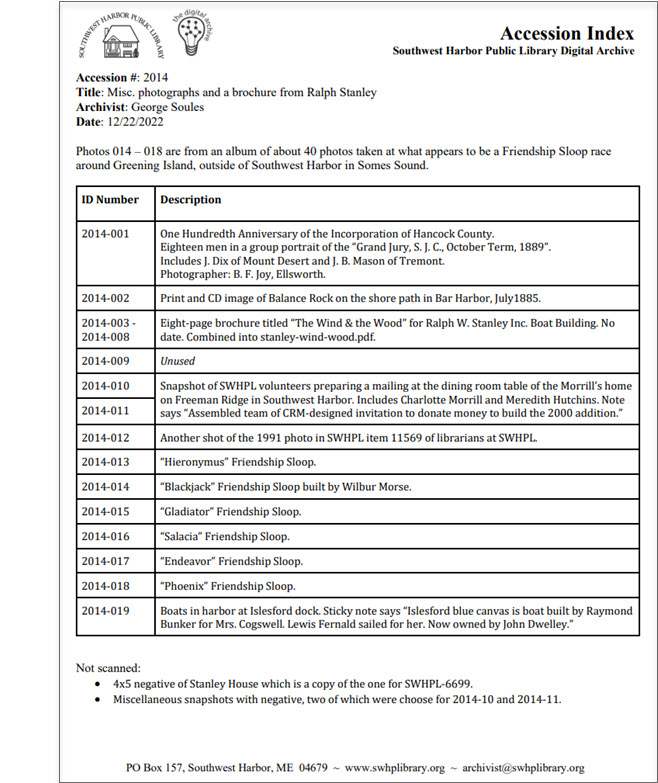
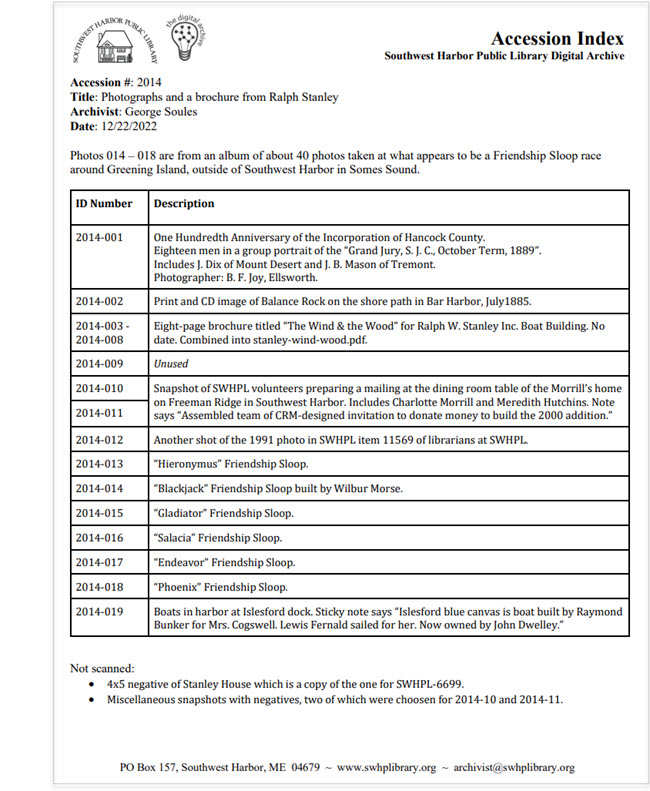
Updates to the Accession Index section.

Changed region(s): [[0.0615, 0.0, 1.0, 1.0]]

diff --git a/digital-archive/docs/archivist/accessioning.md b/digital-archive/docs/archivist/accessioning.md
@@ -385,11 +385,7 @@ In the explanations below, `####` means the accession number.
 :   This step produces a searchable index that, once attached to the UA in step 5A, makes a detailed description of the
     accession searchable via the Digital Archive.
 
-    -   Make a copy of the file named `accession-index-template.docx` which is   
-        located in the Google Drive `Policies and Procedures` folder.
-    -   Rename the copy to `accession-index-####.docx` where `####` is the accession number.
-    -   Follow the instructions for [creating an index for an accession](#accession-index).
-    -   Save the index Word document as a PDF file named `accession-index-####.pdf`.
+    -   Follow the instructions for [creating an accession index](#creating-an-accession-index).
     -   Create a new S3 folder named `S3\Accessions\####`.
     -   Upload the PDF and Word files to the S3 folder.
 
@@ -577,47 +573,115 @@ The screenshot below shows some of the fields and a few of the many rows of the 
 ---
 
 ## Accession Index
-- Create diagram showing indexing process.
-    -    Accession reviewed by curator at outset
-    -    Archivist creates index, asks curator for help filling in blanks
-    -    Archivist submits index to curator for approval
-- Each row should contain all available metadata, same as would go into a DA item.
-- Index should not have blank entries
-- To fill in blanks, try to find related items in DA to determine whether to keep or separate an item.
-- Use a separate table in the index file to list items that have been separated.
-- Mention that the index can just be text in a UAs Description field when appropriate.
 
+An accession index is an inventory of what's in an accession. The index
+contributes to the [goal of accessibility](#accessibility) by making the contents of an accession searchable
+even if the accession's individual items have not yet been added to the Digital Archive.
 
-
-The real work of accessioning begins with indexing the accession's contents. The archivist examines the items
-in the accession and creates a table in a Word document with one row for each item. Depending on the information available,
-the table may be complete and detailed, or it may be sparse, only identifying the most significant items in the accession,
-or only those items for which information is known.
-
-When creating the index, use as many relevant keywords as possible since the text in the index will be searchable.
-The words in the index will determine whether someone will be able to search for and find something of
-interest in the accession.
-
-The index table should contain the columns listed below and possibly others if there is other information to record such as which
-of a set of photo albums a photograph item is contained in.
-
--   **ID number**: An identification number used for [file naming](#file-naming) when the item is or was scanned.
--   **Description**: A concise, but keyword-rich description of the item.
--   **Date**: The date of the item if known.
--   **Notes**: Other information about the item. 
-
-Below is a screenshot showing an example of a typical index where there is a lot of information for some
-items and none for others.
+In most cases, an archivist creates an accession Index as a Word document and then converts it to a PDF file.
+Below is an example of a typical accession index.
 
 ![image](accessioning-19.jpg)
 
-In addition to making the accession accessible and searchable via the Digital Archive, the index also provides a guide
-for someone who is tasked with scanning the items in the accession. They will use the table's Description column to identify
-items and use the Item Number to derive the scan's file name.
+For some accessions it is sufficient to create a very simple index and paste it into the **_Description_** field
+for the accession's Digital Archive item. Below is an example of this kind of accession index.
 
-### Auto-numbering index table rows
+![image](accessioning-27.jpg)
+
+ The simpler index
+would be appropriate when little is known about the individual items, or as a way to quickly make an accession
+accessible when there is not enough time to create a more detailed index. The simpler index can also be sufficient if
+the accession has a [contact sheet](#accession-contact-sheet) containing keyword-rich file names which add to the
+accession's searchability.
+
+### Creating an accession index
+This section explain the key elements involved in creating an accession index:
+
+-   Curator assessment of the accession
+-   Item ID numbers
+-   Accession index template
+-   Metadata
+-   Curator approval of the index file
+
+#### Curator assessment of the accession
+Before an archivist creates an index for an accession, the curator should assess the items in the accession
+to determine which items should be: 
+
+-   Separated out because they don't satisfy the [collection development policy](#collection-development-policy).
+-   Assigned individual ID numbers and be listed on individual rows in the index.
+-   Treated as a set to be described on one row in the index.
+-   Eventually be digitized.
+
+This assessment effort by the curator ensures that the time an archivist spends creating the accession index will
+be focused on items that the curator deemed most important.
+
+#### Item ID numbers
+Index creation and scanning are faster and easier when the accession items identified by the curator as needing ID numbers
+are labeled with those numbers *before* indexing or scanning the items. For prints and documents, this is usually done
+by writing the ID number in pencil in an inconspicuous place such as the back of the print or document. A pen may be required
+if pencil will not mark. If the item cannot be marked inconspicuously, the item can be placed in a clear sleeve with the ID number
+written on the sleeve with a sharpie. Do not rely on sticky notes for this purpose since they might detach leaving the item unidentified.
+
+Pre-labeling the items ensures that the physical items match the items in the index which is especially helpful if the
+materials get mixed up while handling them.
+
+The ID number is usually the accession number (or sub-accession number) followed by a hyphen followed by a three digit number
+with leading zeros. For example `2014-001`, or `1071_03-071`. If the item is already a digital file, the file name can
+be used as the ID "number" or it can be renamed to follow the usual accession item numbering scheme.
+
+When it comes time to scan the accession's items, the person doing the scanning uses the ID numbers as the item file names.
+
+#### Accession index template
+An archivist creates an accession-index from a template. To use the template:
+
+-   Make a copy of the file named `accession-index-template.docx` which is   
+    located in the Google Drive `Policies and Procedures` folder.
+-   Rename the copy to `accession-index-####.docx` where `####` is the accession number.
+
+The template file contains two columns: `ID Number` and `Description` but you can add additional columns
+to provide information that is unique to the items in the accession. For example, when scanning the pages
+of a photo album without first removing each photo, and without marring the album pages with ID numbers,
+you can identify photos by their position on the album page. The example below does this by using a `Position` column.
+
+![image](accessioning-28.jpg)
+
+You can also add notes in the form of paragraphs above and/or below the table as shown in the examples in this section.
+
+##### Auto-numbering index table rows
+When creating a long index, you can save time by having Microsoft Word automatically number the index
+rows for you. To do this, remove all but the first row from the template, select the ID Number cell in that row, and
+then define a numbering format as shown below. The format will be applied when you add new rows,
+saving you from having to type the number each time.
 
 ![image](accessioning-26.jpg)
+
+#### Metadata
+When filling out the description for index rows, use as many relevant keywords as possible since that
+text will be searchable. The words you choose will determine whether someone will be able to search for
+and find something of interest to them in the accession.
+
+In the description, include as much metadata as you know about the item. For example, for a postcard,
+include the names of the publisher and photographer if known, a description of the postcard's photo
+(from the card's text or, if not provided, your own words), and the date if there is a postmark. If
+the back of the card is of interest, use two rows in the index, one for the front and one for the back,
+so that the person scanning the card will know to scan both sides.
+
+To decide what metadata to include in the description, think about it this way. Later, when this item
+gets added to the Digital Archive, the metadata should be sufficient to fill in the item's fields
+just by looking at the index and the scan, without having to retrieve and handle the physical item.
+
+When using acronyms, spell out the first instance, for example write "Acadia National Park (ANP)" the
+first time instead of just "ANP".
+
+#### Separated out items
+When the accessions contains items that the curator separated out, add a paragraph or a separate table
+to the accession index that briefly describes those items.
+
+#### Curator approval of the index file
+When the index is complete, the archivist:
+
+- Submits the index to the curator for approval.
+- Saves the approved index Word document as a PDF file named `accession-index-####.pdf` where `####` is the accession number.
 
 ---
 

diff --git a/digital-archive/docs/archivist/creating-pdfs.md b/digital-archive/docs/archivist/creating-pdfs.md
@@ -15,7 +15,7 @@ Here is a summary of the best way to create a PDF in most situations.
 -   Use a PDF program like [Adobe Acrobat Pro](https://www.adobe.com/acrobat/complete-pdf-solution.html)
     or [FoxIt PDF Editor](https://www.foxit.com/pdf-editor/) to:
     -   [Combine the TIFF files into a PDF file](#combining-scan-files-into-a-pdf-file).
-    -   Create an [optimized copy of the PDF](#how-to-optimize-a-pdf-file) that has a smaller file size than the original.
+    -   Create an [optimized copy of the PDF](#create-an-optimized-copy-of-the-pdf) that has a smaller file size than the original.
 -   [OCR the optimized PDF](#ocr-optical-character-recognition)
 -   [Attach the smaller PDF](/archivist/attach-file/#attach-an-image-or-pdf-to-an-item) to a Digital Archive item.
 -   Move the TIFF files to your [archival storage](/archivist/best-practices/#archival-file-management) area.
@@ -45,6 +45,9 @@ Examples are type-written or typeset text where the words, not an image of the w
 books, and other textual material, you can scan the pages directly to a single PDF which is much faster than scanning to
 individual TIFF files and then combining them into a PDF. Furthermore, you can scan at 300 PPI, possibly using grayscale instead
 of color, to produce smaller files.
+
+If you opt to create a PDF file directly from the scanner, you can still create an [optimized copy of the PDF](#create-an-optimized-copy-of-the-pdf)
+that has a smaller file size than the original.
 
 #### Rule: Optimize the PDF file created from the TIFF files   
 You optimize a PDF to create a smaller *copy* while keeping the original PDF file which can be tens or hundreds of megabytes in size.
